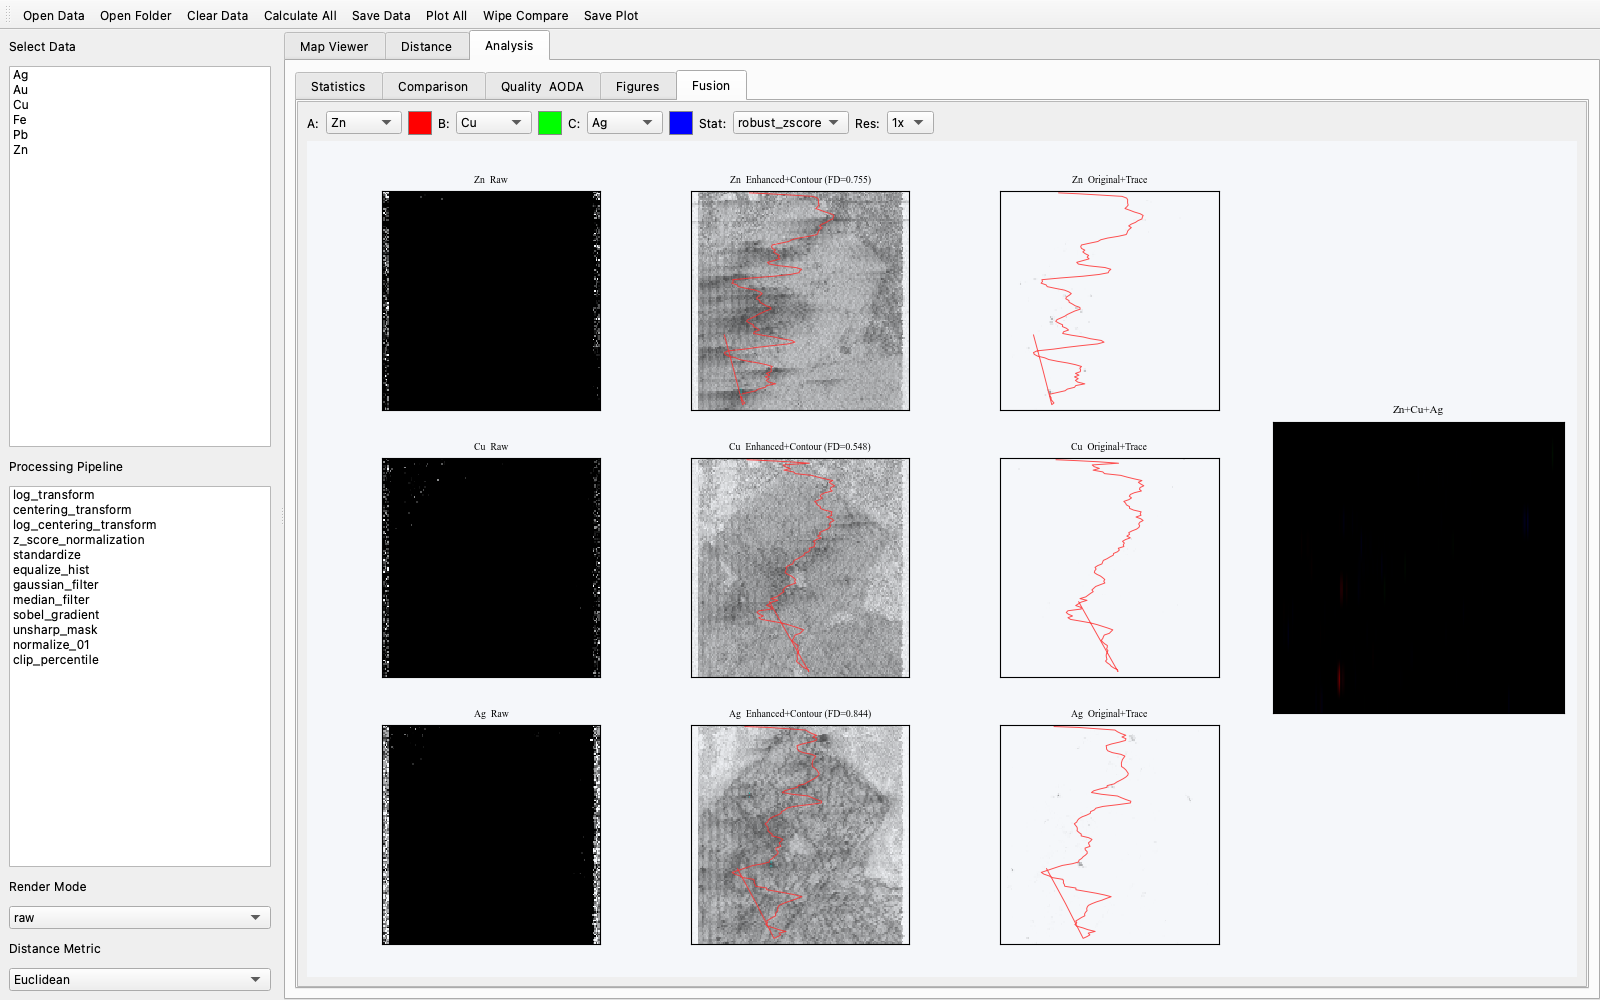
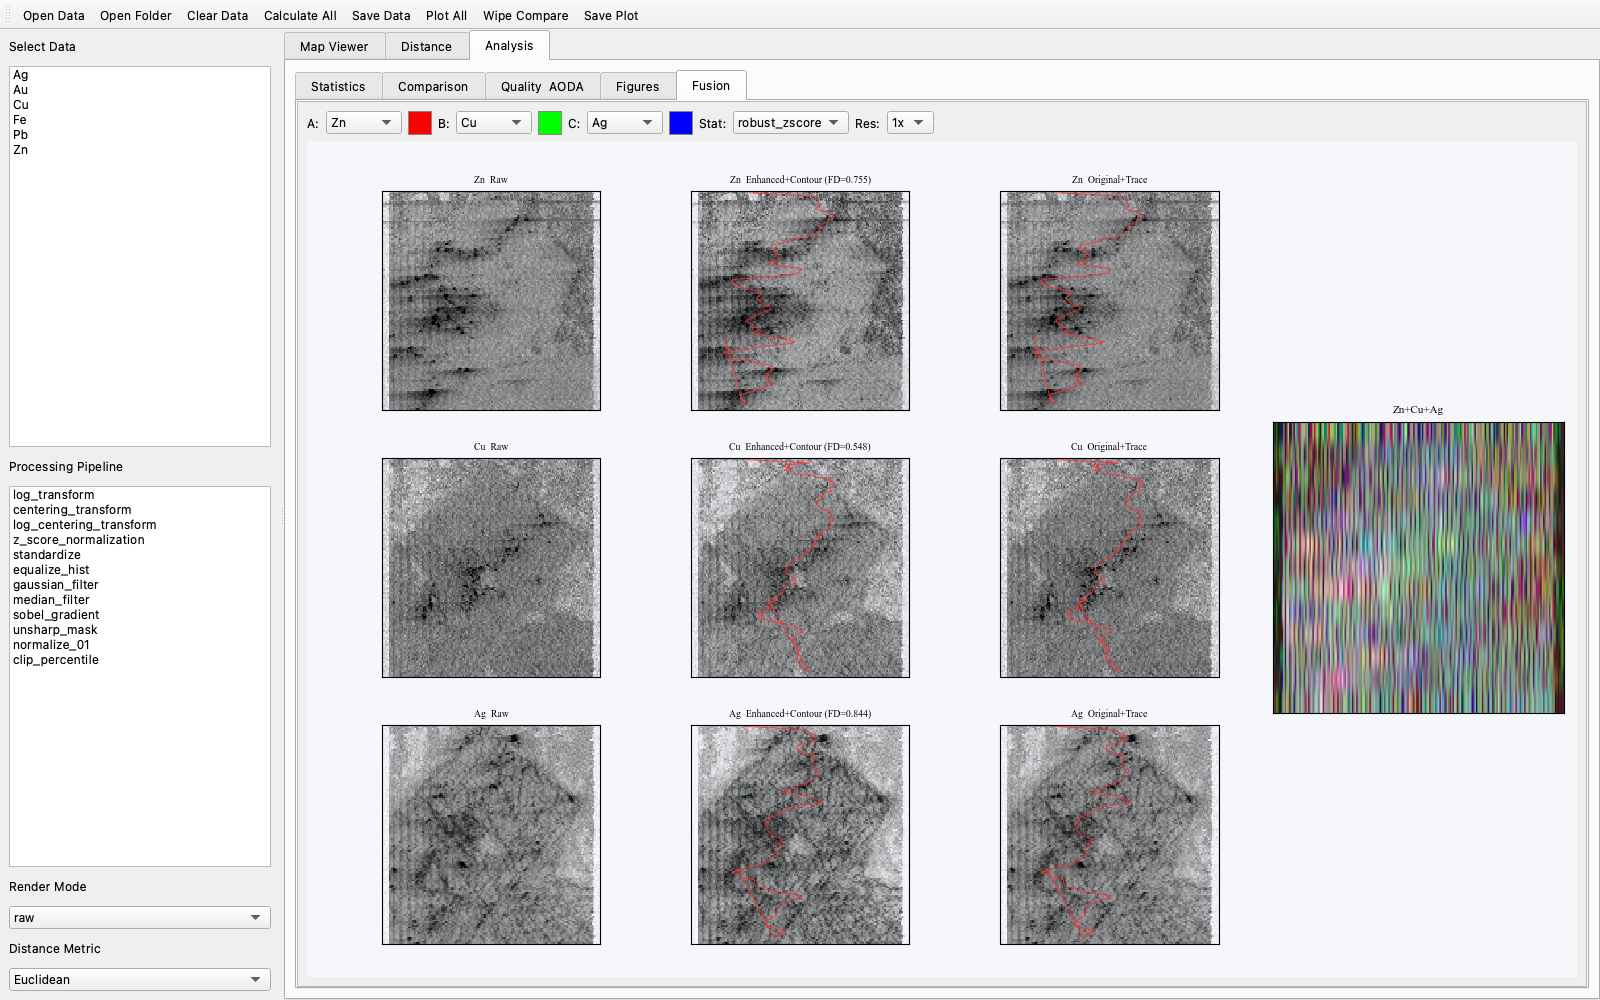
v1.6.2: fix Fusion Raw panel (single display_scale like 08_plot_all) and overlay brightness

diff --git a/cpsvisualizer/src/cpsvisualizer/app.py b/cpsvisualizer/src/cpsvisualizer/app.py
@@ -825,18 +825,19 @@ class CPSVisualizer(QMainWindow):
         gs = GridSpec(n_rows, 4, figure=fig, wspace=0.06, hspace=0.22,
                       left=0.03, right=0.99, top=0.94, bottom=0.04)
         cols = ['Raw', 'Enhanced+Contour', 'Original+Trace']
-        # build RGB overlay
+        # build RGB overlay using display_scale for proper contrast
+        from scipy.ndimage import zoom as _zoom
         colors = [to_rgba(c)[:3] for c in self._fus_colors[:n_rows]]
-        raw0 = self._fus_rows[0]['raw01']
-        mr, mc = raw0.shape[0], raw0.shape[1]
-        for r in self._fus_rows[1:]:
-            mr = min(mr, r['raw01'].shape[0])
-            mc = min(mc, r['raw01'].shape[1])
+        scaled_data = []
+        for r in self._fus_rows:
+            s, lo, hi = display_scale(r['raw'], 1, 99)
+            scaled_data.append(np.clip((s - lo) / (hi - lo + 1e-12), 0, 1))
+        mr = min(d.shape[0] for d in scaled_data)
+        mc = min(d.shape[1] for d in scaled_data)
         overlay = np.zeros((mr, mc, 3))
         for ch in range(3):
             if ch < n_rows:
-                overlay[:, :, ch] = (self._fus_rows[ch]['raw01'][:mr, :mc] *
-                                     colors[ch][ch])
+                overlay[:, :, ch] = scaled_data[ch][:mr, :mc] * 0.8 + 0.1
         overlay = np.clip(overlay, 0, 1)
         # data panels
         for row_i in range(n_rows):
@@ -846,24 +847,23 @@ class CPSVisualizer(QMainWindow):
                 ax.set_facecolor(FIG_BG)
                 if col_j == 0:
                     s, lo, hi = display_scale(r['raw'], 1, 99)
-                    arr = s
-                    vmin, vmax = lo, hi
+                    arr_disp = _downsample(s, 180, 180)
+                    ax.imshow(arr_disp, cmap=ink_colormap(), vmin=lo, vmax=hi,
+                              aspect='auto', interpolation='nearest')
                 elif col_j == 1:
-                    arr = r['V']
-                    s, lo, hi = display_scale(arr, 0, 100)
-                    vmin, vmax = lo, hi
+                    s, lo, hi = display_scale(r['V'], 0, 100)
+                    arr_disp = _downsample(s, 180, 180)
+                    ax.imshow(arr_disp, cmap=ink_colormap(), vmin=lo, vmax=hi,
+                              aspect='auto', interpolation='nearest')
                 else:
-                    arr = r['raw01']
-                    s, lo, hi = display_scale(arr, 0, 100)
-                    vmin, vmax = lo, hi
-                arr_disp = _downsample(arr, 180, 180)
-                s_disp, _, _ = display_scale(arr_disp, 0, 100)
-                ax.imshow(s_disp, cmap=ink_colormap(), vmin=0, vmax=1,
-                          aspect='auto', interpolation='nearest')
+                    s, lo, hi = display_scale(r['raw'], 1, 99)
+                    arr_disp = _downsample(s, 180, 180)
+                    ax.imshow(arr_disp, cmap=ink_colormap(), vmin=lo, vmax=hi,
+                              aspect='auto', interpolation='nearest')
                 # trace on col 1 & 2
                 if col_j >= 1 and len(r['tx']) > 2:
-                    sx = r['tx'] * (arr_disp.shape[1] / arr.shape[1])
-                    sy = r['ty'] * (arr_disp.shape[0] / arr.shape[0])
+                    sx = r['tx'] * (arr_disp.shape[1] / r['V'].shape[1])
+                    sy = r['ty'] * (arr_disp.shape[0] / r['V'].shape[0])
                     ax.plot(sx, sy, color='#FF3030', linewidth=0.7, alpha=0.85)
                 # contour on col 1
                 if col_j == 1:
@@ -878,7 +878,7 @@ class CPSVisualizer(QMainWindow):
                 ax.set_xticks([]); ax.set_yticks([])
         # RGB overlay spanning all rows (last column)
         ax_ov = fig.add_subplot(gs[:, 3])
-        ax_ov.set_facecolor('#111111')
+        ax_ov.set_facecolor('#1a1a2e')
         from scipy.ndimage import zoom as _zoom
         oh, ow = overlay.shape[:2]
         z = min(200/oh, 200/ow)

diff --git a/cpsvisualizer/src/setup.py b/cpsvisualizer/src/setup.py
@@ -15,7 +15,7 @@ except Exception:
 
 setup(
     name='cpsvisualizer',
-    version='1.6.1',
+    version='1.6.2',
     description='CPS-Visualizer: Visualization, similarity measurement, and statistical analysis of LA-ICP-MS surface scan data.',
     long_description=README,
     long_description_content_type='text/markdown',
